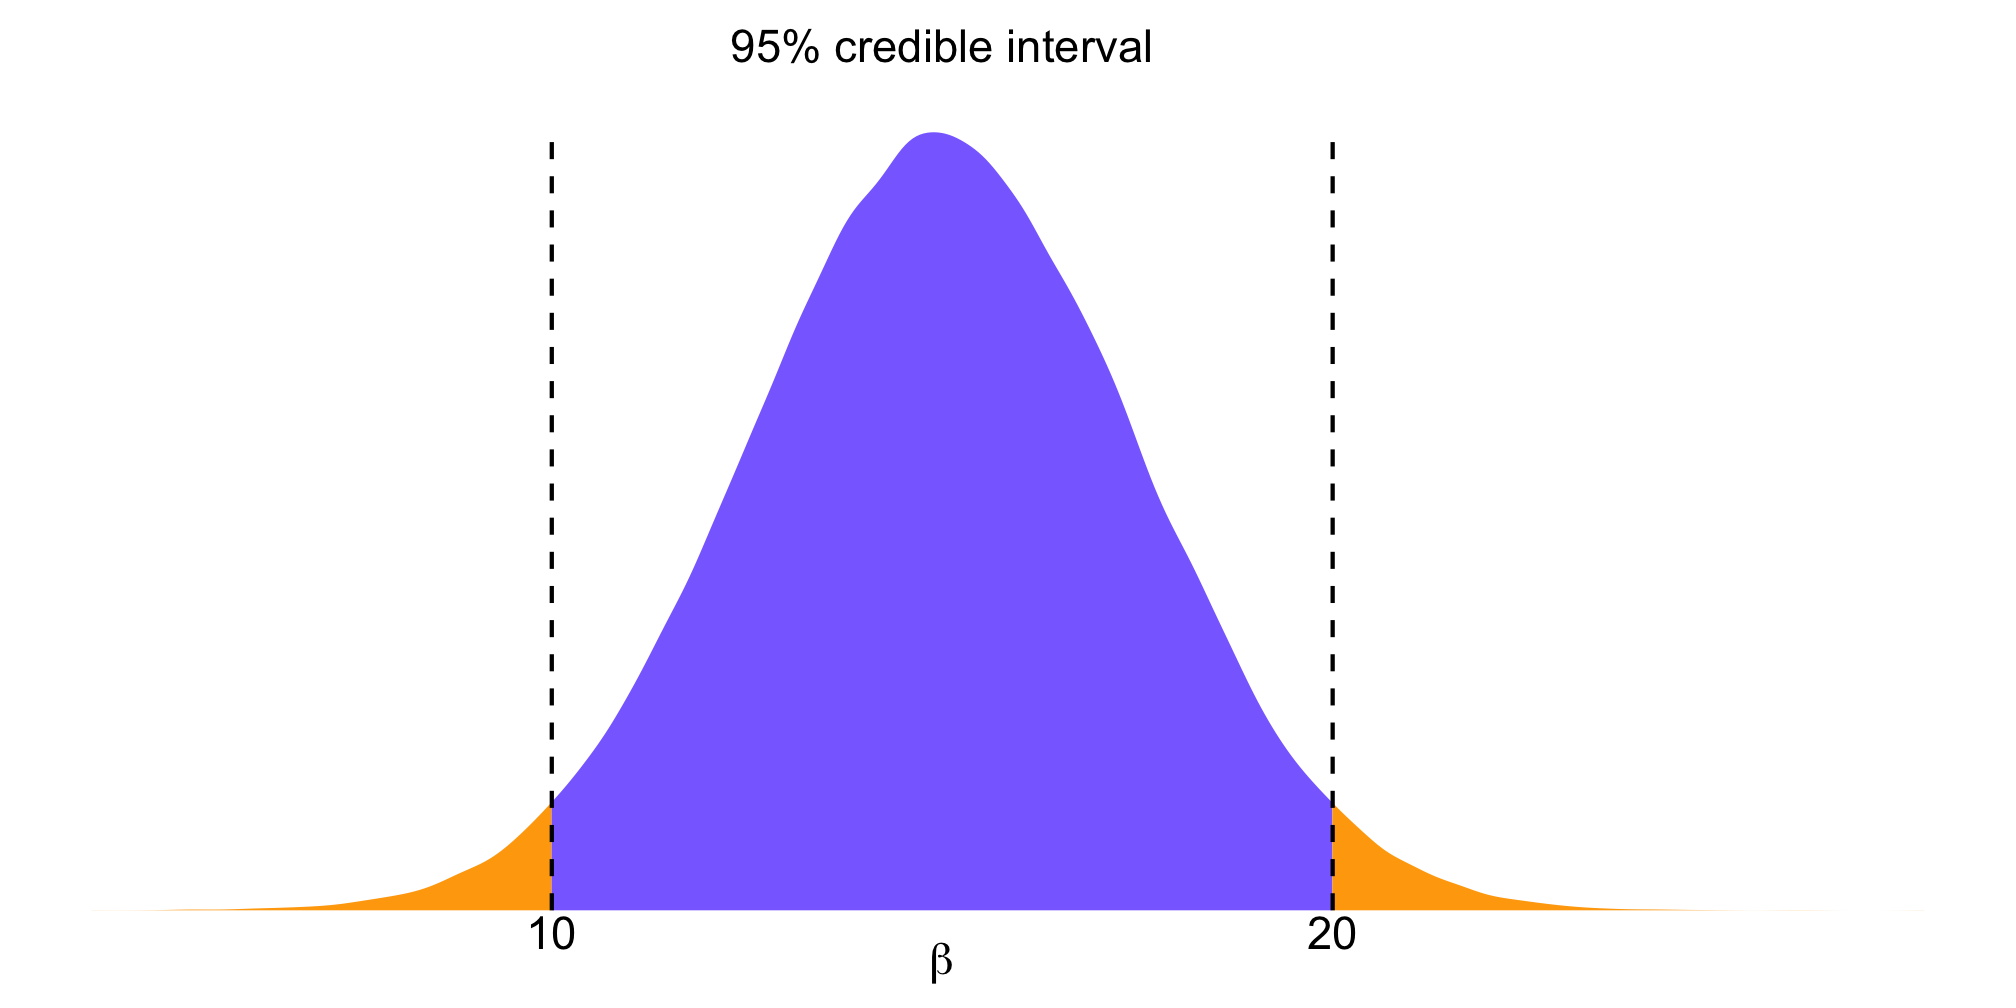
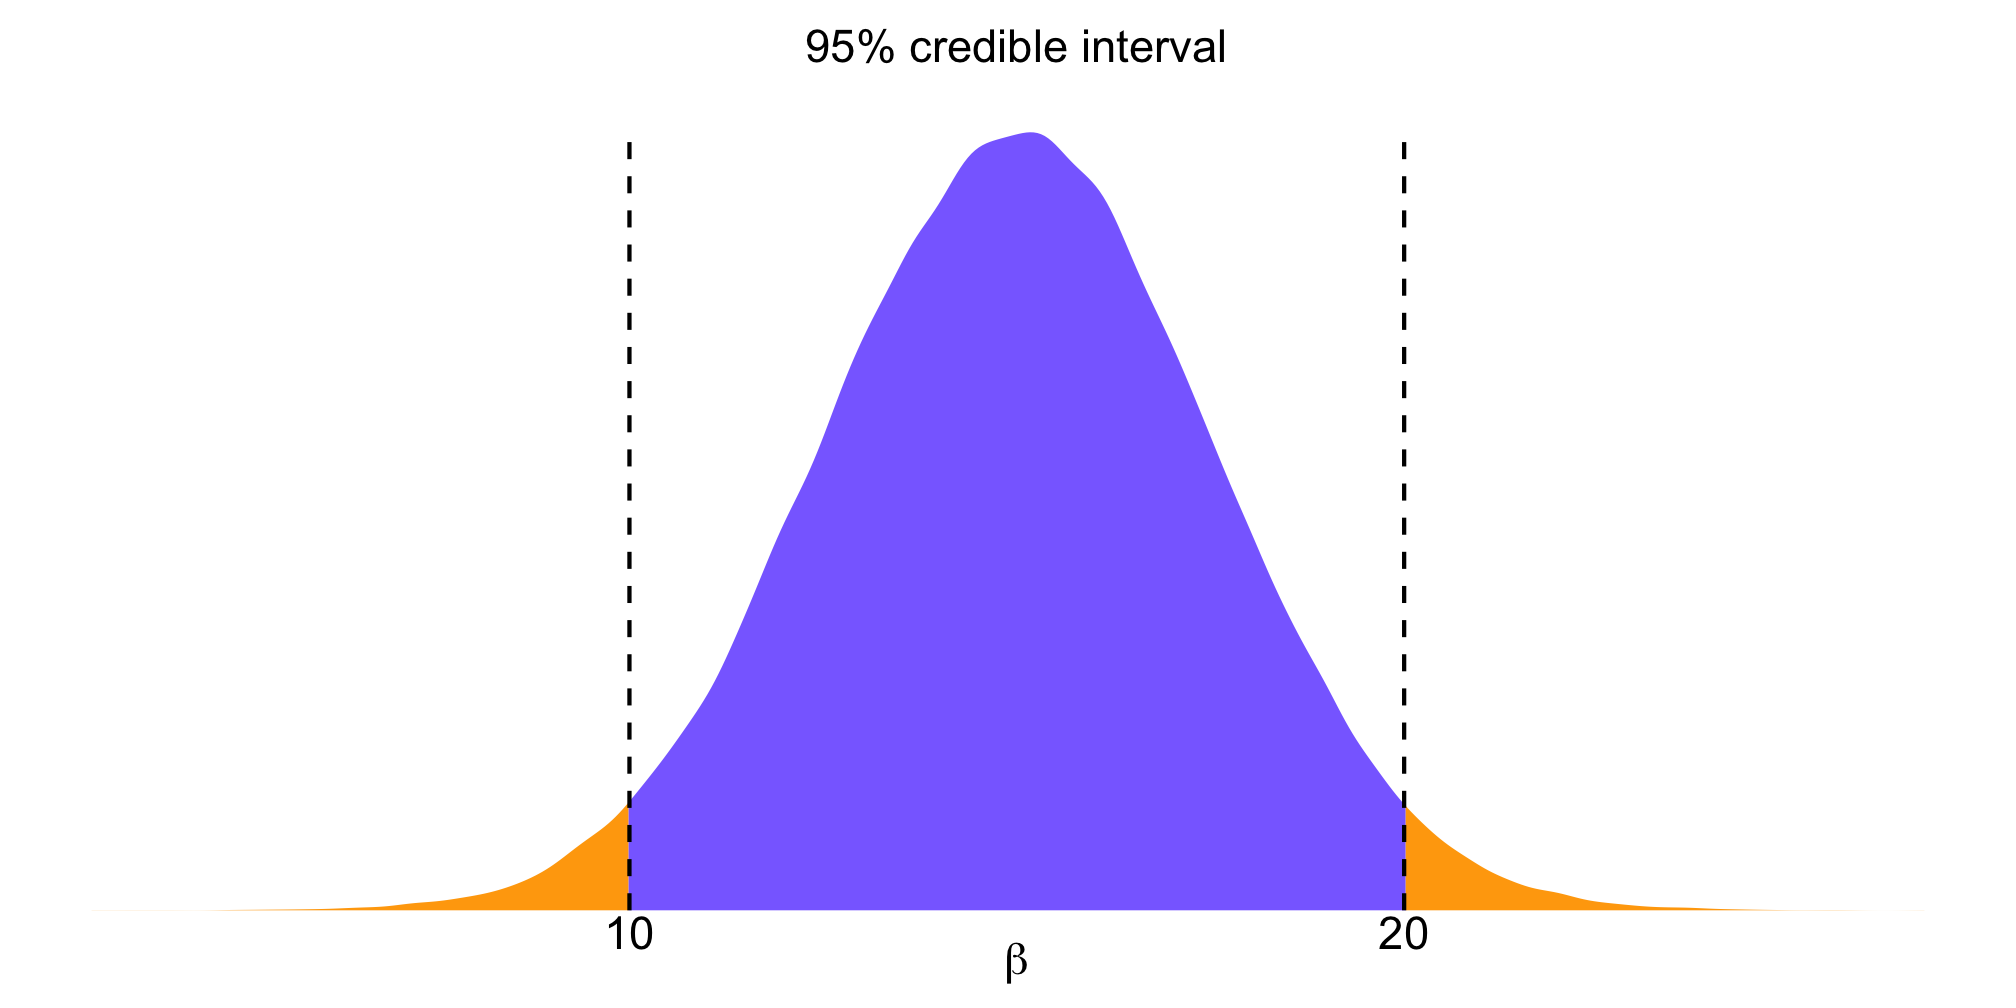
finish coding examples :)

Changed region(s): [[0.1562, 0.123, 0.8438, 0.9534], [0.3438, 0.0308, 0.625, 0.0615], [0.3125, 0.9226, 0.3438, 0.9534]]

diff --git a/06_a2r_inference_over_posterior/index.html b/06_a2r_inference_over_posterior/index.html
@@ -17,7 +17,7 @@ class: center, middle, inverse, title-slide
 ## Bayesian inference
 ### Timo Roettger, Stefano Coretta and Joseph Casillas
 ### LabPhon workshop
-### 2021/07/12 (updated: 2021-06-27)
+### 2021/07/12 (updated: 2021-06-28)
 
 ---
 
@@ -300,9 +300,9 @@ class: center, middle
 
 ???
 
-Here we can see that the posterior mean is 0.3 and the 95% credible interval ranges from 0.13, 0.77
+Here we can see that the posterior mean is 0.3 and the 95% credible interval ranges from 0.15, 0.76
 
-Furthermore we see that 17.88% of the HDI falls within the ROPE
+Furthermore we see that 16.4% of the HDI falls within the ROPE
 
 This is visible in the plot with the orange vertical slab
 
